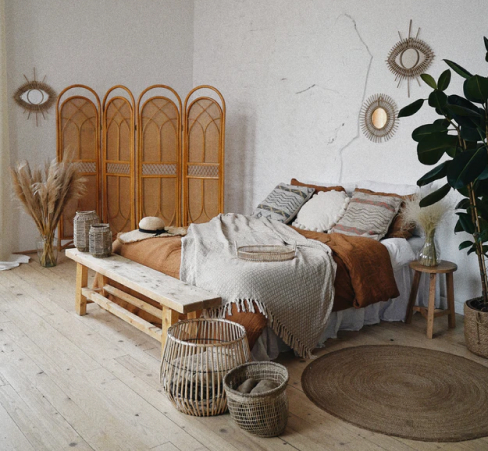
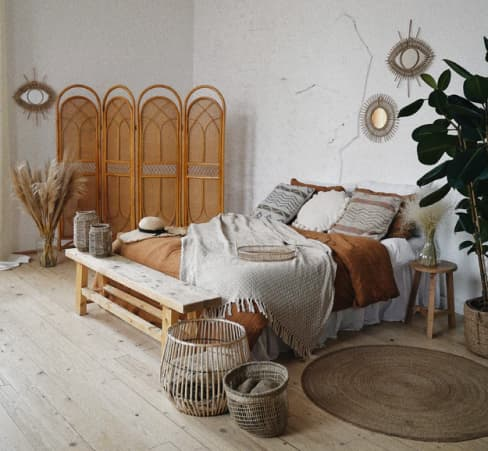
Оптимизированы изображения, исправлены ошибки при переполнении контента, отредактирована стилизация списка в разделе "как мы работаем"

Changed region(s): [[0.4303, 0.1863, 0.4611, 0.2483], [0.3689, 0.2173, 0.3996, 0.2483], [0.2459, 0.1863, 0.2766, 0.2173]]

diff --git a/css/style.css b/css/style.css
@@ -76,22 +76,23 @@ img {
 .header{
     display: flex;
     flex-direction: row;
-    justify-content: end;
     align-items: center;
 }
 
 .header__site-navigation{
     margin-right: 35px;
+    margin-left: auto;
 }
 
 .header__logo{
-    margin-right: auto;
+    margin-right: 30px;
 }
 
 .logo{
     text-decoration: none;
     display: flex;
     align-items: center;
+
 }
 
 .site-navigation__list{
@@ -138,10 +139,11 @@ img {
     display: flex;
     flex-direction: column;
     position: relative;
-    height: 715px;
+    min-height: 715px;
     margin-bottom: 65px;
     background-image: url(../img/common/promo.jpg);
     background-repeat: no-repeat;
+    background-size: cover;
 }
 
 .promo__header{
@@ -149,16 +151,19 @@ img {
     z-index: 5;
     margin-bottom: 25px;
     margin-left: 185px;
+    max-width: 40%;
 }
 
 .promo__description{
     z-index: 5;
     margin-bottom: 20px;
     margin-left: 185px;
+    max-width: 40%;
 }
 
 .promo__button{
     margin-left: 185px;
+    margin-bottom: 30px;
 }
 
 .title-1{
@@ -210,6 +215,17 @@ img {
     padding-left: 185px;
     gap: 65px;
     margin-bottom: 20px;
+
+}
+
+.about-img-box{
+  width: 445px;
+    flex-shrink: 0;
+   /*max-height: 465px;*/
+}
+
+.about__img{
+    width: 100%;
 }
 
 .about__list{
@@ -220,16 +236,18 @@ img {
 
 .about-text__wrapper{
     display: flex;
+    max-width: 50%;
     flex-direction: column;
     gap: 30px;
 }
 
-/*--------------------------BENEFITS-------------------------*/
 
 .benefits-list{
     display: flex;
     flex-direction: row;
     justify-content: space-between;
+    gap: 30px;
+    flex-wrap: wrap;
 }
 
 .benefits-list__item{
@@ -237,20 +255,23 @@ img {
     flex-direction: column;
     align-items: center;
     gap: 8px;
+
 }
 
 .benefits-list__term{
     font-size: 50px;
     line-height: 62px;
     color: #fff;
+    text-align: center;
 }
 
-.benefits-list__description{
+.benefits-list__definition{
     font-weight: 500;
     font-size: 30px;
     line-height: 37px;
     text-transform: uppercase;
     color: #fff;
+    text-align: center;
 }
 
 /*-------------------------OUR WORKS-----------------------------*/
@@ -294,6 +315,9 @@ img {
     padding-top: 85px;
     padding-left: 35px;
     padding-right: 35px;
+    overflow: hidden;
+    text-overflow: ellipsis;
+
 }
 
 .our-works__figcaption:hover{
@@ -362,6 +386,7 @@ img {
     justify-content: space-between;
     list-style: none;
     width: 100%;
+    gap: 35px;
 }
 
 .team__item{
@@ -388,7 +413,7 @@ img {
 }
 
 .how-we-work__header{
-    margin-bottom: 130px;
+    margin-bottom: 40px;
     padding-left: 40px;
 }
 
@@ -397,27 +422,30 @@ img {
     display: flex;
     flex-direction: row;
     justify-content: space-between;
+    list-style-type: none;
+    counter-reset: li;
+    gap: 20px;
+    flex-wrap: wrap;
 }
 
 .how-we-work__item{
     position: relative;
-    width: 285px;
+    width: 20%;
     text-align: center;
+    counter-increment: li;
+    margin-top: 90px;
 }
 
-.how-we-work__item::marker{
+.how-we-work__item::after{
+    content: counter(li);
     position: absolute;
-    font-size: 1px;
-    width: 1px;
-    height: 1px;
-    margin: -1px;
-    border: 0;
-    padding: 0;
-    white-space: nowrap;
-    clip-path: inset(100%);
-    clip: rect(0 0 0 0);
-    overflow: hidden;
-
+    top: -70px;
+    left: 50%;
+    transform: translateX(-50%);
+    font-size: 30px;
+    line-height: 30px;
+    font-weight: 500;
+    color: rgba(255, 255, 255, 0.7);
 }
 
 .how-we-work__item::before{
@@ -433,33 +461,6 @@ img {
     border-radius: 50%;
 }
 
-.how-we-work__item::after{
-    position: absolute;
-    content: "";
-    top: -70px;
-    left: 50%;
-    transform: translateX(-50%);
-    font-size: 30px;
-    line-height: 30px;
-    font-weight: 500;
-    color: #ffffff;
-}
-
-.how-we-work__item:nth-child(1)::after{
-    content: "1";
-}
-
-.how-we-work__item:nth-child(2)::after{
-    content: "2";
-}
-
-.how-we-work__item:nth-child(3)::after{
-    content: "3";
-}
-
-.how-we-work__item:nth-child(4)::after{
-    content: "4";
-}
 
 /*-----------------------REVIEWS---------------------------*/
 .reviews{
@@ -511,7 +512,7 @@ img {
     height: 72px;
     top: 50%;
     border-radius: 50%;
-    border: 2px solid #F5F2ED;
+    border: none;
 }
 
 .reviews__button:hover{
@@ -611,6 +612,17 @@ img {
 .form__button:hover{
     background-color: #CC8B86;
     box-shadow: 0 0 10px rgb(66, 45, 42);
+}
+
+.form-img-box{
+    width: 590px;
+    flex-shrink: 0;
+}
+
+.form__img{
+    width: 100%;
+    height: 100%;
+    object-fit: cover;
 }
 
 /*--------------------------FOOTER------------------------*/

diff --git a/index.html b/index.html
@@ -13,6 +13,7 @@
     <a href="#" class="header__logo logo">
       <img src="img/content/logo.png" alt="Логотип дизайн-студии" class="logo__img" width="26" height="25">
       <img src="img/content/SCANDI.svg" alt="SCANDI" class="logo__text" width="62" height="13">
+      <span class="visually-hidden">На главную</span>
     </a>
     <nav class="header__site-navigation site-navigation">
       <ul class="site-navigation__list">
@@ -36,7 +37,7 @@
         </li>
       </ul>
     </nav>
-    <a href="tel:+79818574624" class="header__phone phone">+7 (981) 857-46-24</a>
+    <a href="tel:+79818574624" class="header__phone phone">+7&nbsp;(981)&nbsp;857-46-24</a>
   </header>
   <main class="page__main main">
     <h1 class="visually-hidden">Главная страница студии дизайна "SCANDI" </h1>
@@ -53,7 +54,9 @@
     <section id="about" class="about">
       <h2 class="about__header title-2">О нас</h2>
       <div class="about__wrapper">
-        <img src="img/content/about.jpg" alt="Сервированный стол с белой вазой в форме яйца" class="about__img" width="445" height="465">
+        <div class="about-img-box">
+          <img src="img/content/about.jpg" alt="Сервированный стол с белой вазой в форме яйца" class="about__img" width="445" height="465">
+        </div>
         <div class="about-text__wrapper">
           <p class="about__text">Премиальный европейский текстиль — одно из самых главных направлений работы коллектива.
             Создавать неповторимые интерьеры для наших дорогих клиентов, уделяя внимание мельчайшим деталям — вот то,
@@ -65,15 +68,15 @@
       <dl class="about__list benefits-list">
         <div class="benefits-list__item">
           <dt class="benefits-list__term">5</dt>
-          <dd class="benefits-list__description">лет опыта</dd>
+          <dd class="benefits-list__definition">лет опыта</dd>
         </div>
         <div class="benefits-list__item">
           <dt class="benefits-list__term">100</dt>
-          <dd class="benefits-list__description">проектов</dd>
+          <dd class="benefits-list__definition">проектов</dd>
         </div>
         <div class="benefits-list__item">
           <dt class="benefits-list__term">10</dt>
-          <dd class="benefits-list__description">наград</dd>
+          <dd class="benefits-list__definition">наград</dd>
         </div>
       </dl>
     </section>
@@ -175,7 +178,9 @@
           <button type="submit" class="form__button button">Оставить заявку</button>
         </form>
       </div>
-      <img src="img/content/map.jpg" alt="Карта с расположением офиса дизайн-студии SCANDI" class="form__img" width="590" height="624">
+      <div class="form-img-box">
+        <img src="img/content/map.jpg" alt="Карта с расположением офиса дизайн-студии SCANDI" class="form__img" width="590" height="624">
+      </div>
     </section>
   </main>
   <footer class="page__footer footer">
